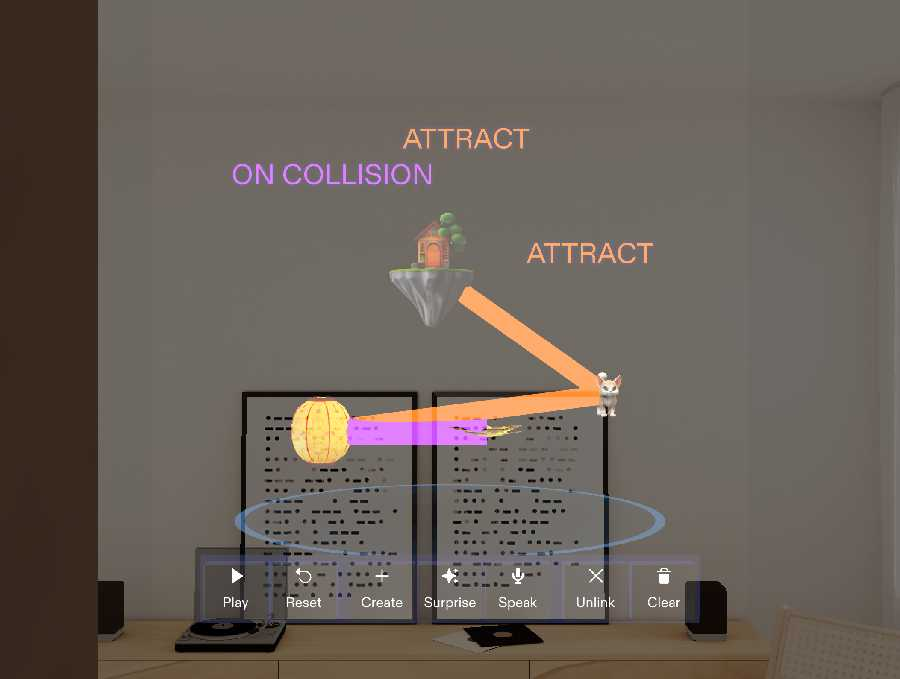
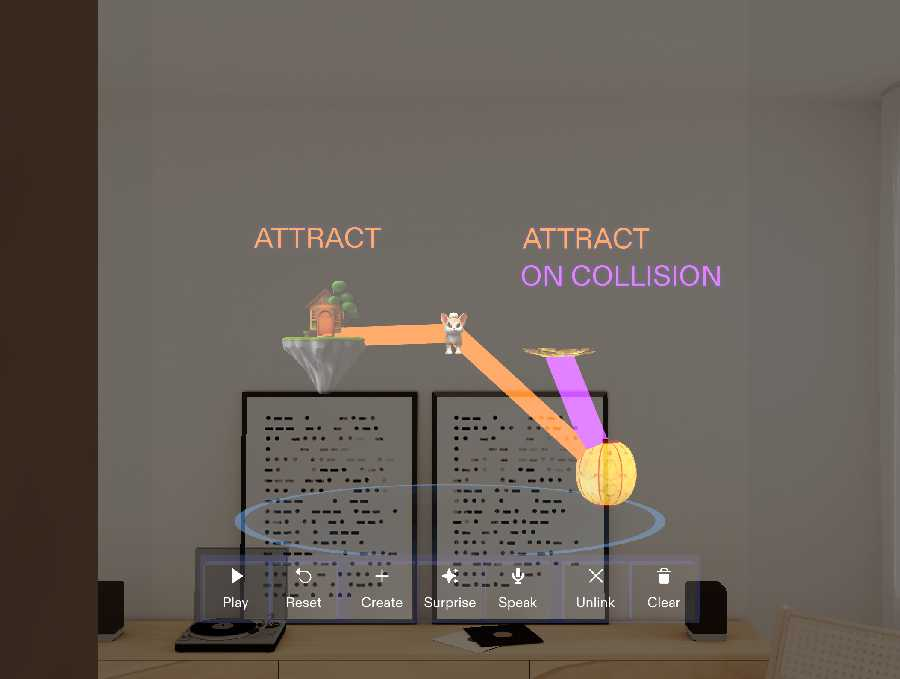
Universe layout tuned: cat moves toward the lantern, then retreats to the house and settles; label x clamp; story tests

diff --git a/Assets/RuleShiftController.js b/Assets/RuleShiftController.js
@@ -693,7 +693,7 @@ var UP = new vec3(0, 1, 0);
 var POP_TIME = 0.4, lastDt = 0.016;
 var LABEL_TEXT = { ATTRACT: "ATTRACT", REPEL: "REPEL", COLLISION_TRIGGER: "ON COLLISION" };
 var labelAlpha = 1;   // labels stay fully opaque in every mode
-var LABEL_NUDGE_STEP = 0.8, LABEL_NUDGE_MAX = 40;
+var LABEL_NUDGE_STEP = 0.8, LABEL_NUDGE_MAX = 40, LABEL_MAX_X = 15;
 function labelExtent(c) {   // half-size and centre offset of the label text in world cm (the camera sits at the origin, so depth = -z)
     var bb = c.label.getBoundingBox(), sc = c.labelTr.getWorldScale().x;
     var w = (bb.right - bb.left) * sc, h = (bb.top - bb.bottom) * sc;
@@ -725,6 +725,7 @@ function updateLabel(c) {
     var cx = 0; nodes.forEach(function (n) { cx += n.pos.x / nodes.length; });   // side links push their labels outward so labels don't pile up
     var dx = Math.max(-1, Math.min(1, (mid.x - cx) / 6)) * 6.5;
     var lp = mid.add(toCam.uniformScale(22)).add(new vec3(dx, 7, 0));
+    lp = new vec3(Math.max(-LABEL_MAX_X, Math.min(LABEL_MAX_X, lp.x)), lp.y, lp.z);   // keep wide labels inside the visible stage (a label at the far rim was clipped)
     // never sit on top of an object: if the label's screen footprint touches any node, nudge it upward until clear
     var ext = labelExtent(c), nudged = 0;
     if (ext) { while (nudged < LABEL_NUDGE_MAX && labelHitsNode(lp, ext, c)) { lp = lp.add(new vec3(0, LABEL_NUDGE_STEP, 0)); nudged += LABEL_NUDGE_STEP; } }
@@ -816,14 +817,15 @@ function loadChain() {
 }
 // demoStage "universe": library house on a floating island (heavy, 1.5x), cat (light, 0.7x), lantern and flower at base size 12 cm, from saved models.
 // Links: cat-lantern ATTRACT, lantern-flower COLLISION TRIGGER, cat-home ATTRACT. The cat pulls the lantern across the stage into the flower;
-// the collision sends a pulse down the lantern's link and flips cat-lantern to REPEL.
+// the collision sends a pulse down the lantern's link and flips cat-lantern to REPEL. Layout: the cat starts beside the house, the lantern drifts in from the
+// lower right through the flower; the cat is drawn toward the lantern (away from the house), then after the flip retreats to the house and settles.
 function loadUniverse() {
     clearAll();
     var base = 12;
-    var home = spawnModelNode(script.homeModel, "Home", base * 1.5, "heavy", new vec3(-2, 7.5, WORLD_Z), NODE_COLORS[2]);
-    var cat = spawnModelNode(script.catModel, "Cat", base * 0.7, "light", new vec3(17, -6, WORLD_Z), NODE_COLORS[0]);
-    var lantern = spawnModelNode(script.lanternModel, "Lantern", base, null, new vec3(-14, -10, WORLD_Z), NODE_COLORS[1]);
-    var flower = spawnModelNode(script.flowerModel, "Flower", base, null, new vec3(4, -10, WORLD_Z), NODE_COLORS[0]);
+    var home = spawnModelNode(script.homeModel, "Home", base * 1.5, "heavy", new vec3(-13.7, 0.2, WORLD_Z), NODE_COLORS[2]);
+    var cat = spawnModelNode(script.catModel, "Cat", base * 0.7, "light", new vec3(0.4, 0.7, WORLD_Z), NODE_COLORS[0]);
+    var lantern = spawnModelNode(script.lanternModel, "Lantern", base, null, new vec3(17, -14.5, WORLD_Z), NODE_COLORS[1]);
+    var flower = spawnModelNode(script.flowerModel, "Flower", base, null, new vec3(11.8, -1.5, WORLD_Z), NODE_COLORS[0]);
     if (home && cat && lantern && flower) {
         activateLink(slotFor(lantern, flower, true), RULES.COLLISION_TRIGGER, true);   // first, so its label gets the spot nearest its link
         activateLink(slotFor(cat, lantern, true), RULES.ATTRACT, true);

diff --git a/Assets/Scripts/RuleShiftTests.js b/Assets/Scripts/RuleShiftTests.js
@@ -606,11 +606,23 @@ if (script.runTests) {
         var r2 = lf20.lblRect, fk = { x: tr20.x, y: tr20.y, hw: 0.04, hh: 0.02 };
         check("20 A pill placed on a label pushes the label off it", !(Math.abs(r2.x - fk.x) < r2.hw + fk.hw && Math.abs(r2.y - fk.y) < r2.hh + fk.hh));
         T.setTestPill(null); T.tap(1); yield 0.2;
-        api.activate(); var g20 = 0;
+        var cat20 = nodes[1], hom20 = nodes[0], lan20 = nodes[2];
+        var ch0 = cat20.pos.distance(hom20.pos), cl0 = cat20.pos.distance(lan20.pos), rest20 = cat20.radius + hom20.radius + 6;
+        var maxX20 = 0, outside20 = 0;
+        api.activate(); var g20 = 0, tp20 = 0, chF = ch0, clF = cl0;
         while (g20 < 8 && T.fires(lf20) < 1) { yield 0.25; g20 += 0.25; }
-        check("20 universe: on Play the lantern drifts into the flower and the collision fires within 3-5 s", T.fires(lf20) >= 1 && g20 >= 1 && g20 <= 6, "after " + g20.toFixed(2) + "s");
+        chF = cat20.pos.distance(hom20.pos); clF = cat20.pos.distance(lan20.pos);
+        check("20 story: before the flip the cat moves toward the lantern and away from home", cl0 - clF >= 3 && chF - ch0 >= 1.5, "to lantern " + (cl0 - clF).toFixed(1) + " from home " + (chF - ch0).toFixed(1));
+        check("20 universe: on Play the lantern drifts into the flower and the collision fires within 6 s", T.fires(lf20) >= 1 && g20 <= 6, "after " + g20.toFixed(2) + "s");
         var g20b = 0; while (g20b < 4 && cl20.rule !== "REPEL") { yield 0.2; g20b += 0.2; }
         check("20 universe: the collision's pulse flips cat-lantern to REPEL (chain reaction)", cl20.rule === "REPEL", "rule " + cl20.rule + " cat-home " + ch20.rule);
+        var tEnd20 = g20 + g20b; while (tEnd20 < 5.5) { yield 0.25; tEnd20 += 0.25; }
+        var pA20 = new vec3(cat20.pos.x, cat20.pos.y, cat20.pos.z); yield 0.5;
+        var home20 = cat20.pos.distance(hom20.pos), drift20 = cat20.pos.distance(pA20);
+        check("20 story: after the flip the cat retreats to home and settles there within 6 s of Play", home20 <= rest20 + 1.5 && drift20 < 0.5, "dist " + home20.toFixed(1) + " rest " + rest20.toFixed(1) + " drift " + drift20.toFixed(2) + " t " + (tEnd20 + 0.5).toFixed(2));
+        var lo20b = 0; T.connections.forEach(function (c) { var li = T.labelInfo(c); if (!li.ext || li.hits) { lo20b++; } });
+        var inb20 = nodes.every(function (n) { return Math.abs(n.pos.x) <= 17 + 0.01 && n.pos.y <= 8.01 && n.pos.y - n.radius >= -21; });
+        check("20 story: all objects stay on the stage and no label overlaps a node or label", inb20 && lo20b === 0 && T.labelOverlaps() === 0, "inb " + inb20 + " lbl " + lo20b);
         api.reset(); yield 0.2;
         script.controller.demoStage = ""; api.applyDemoSetup(); yield 0.3;
 
